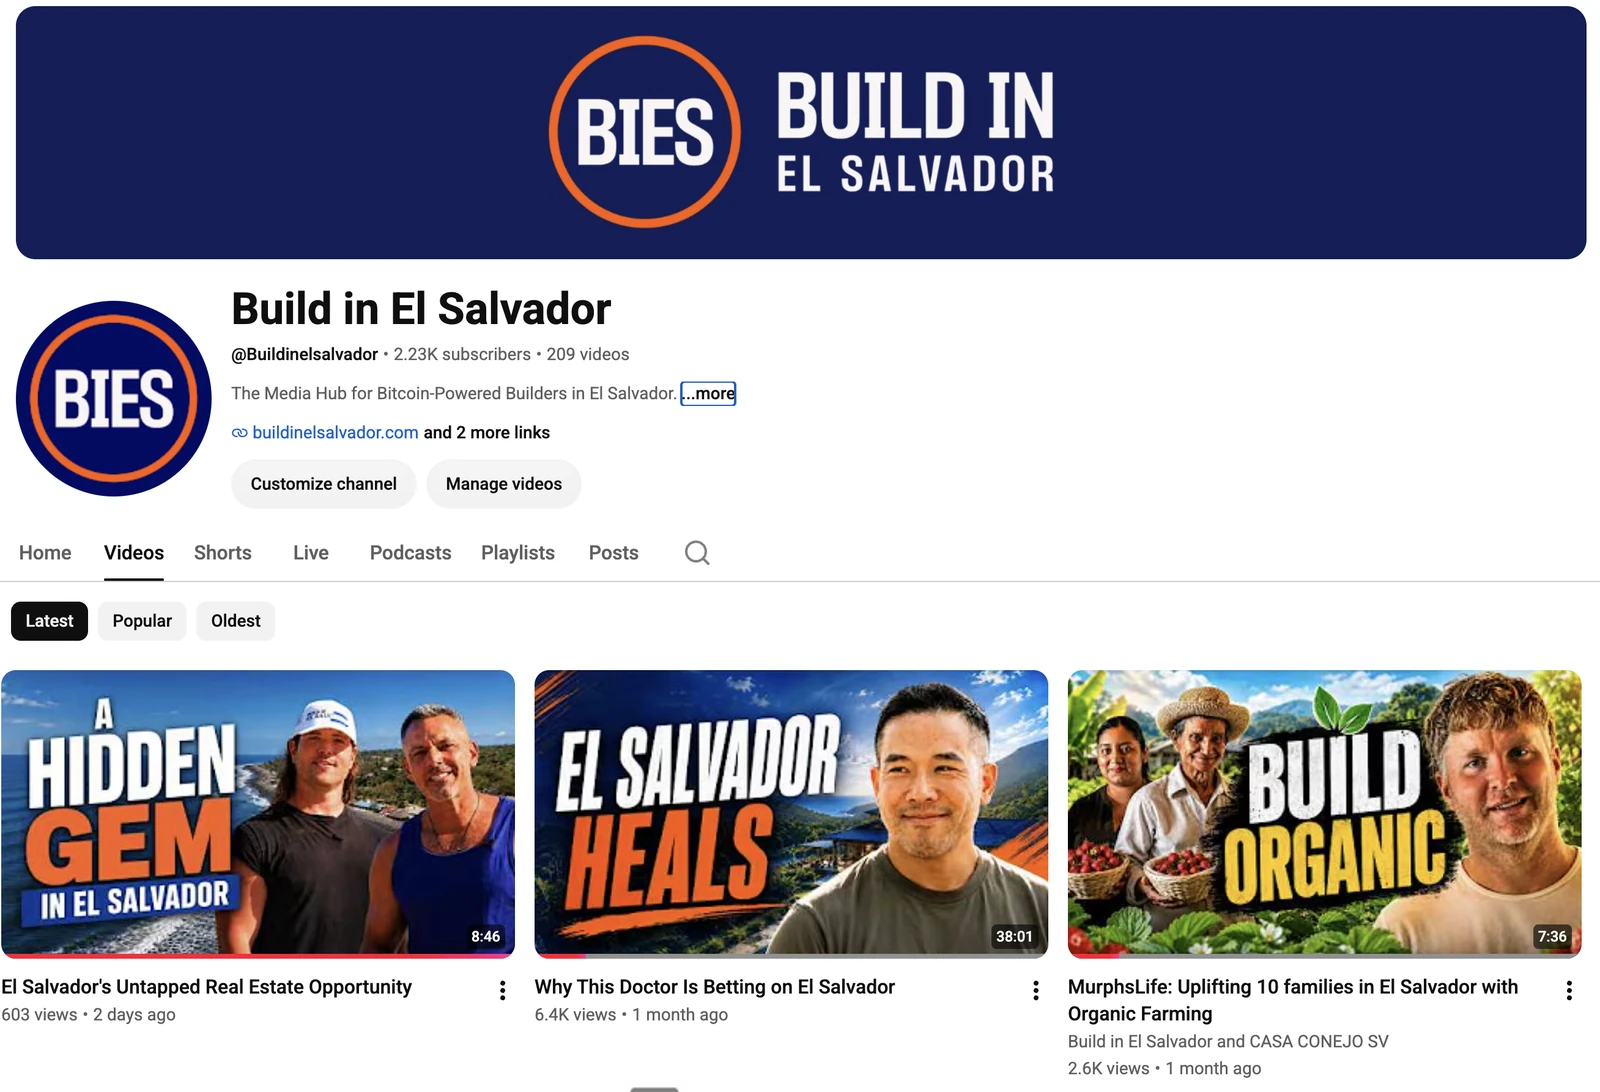
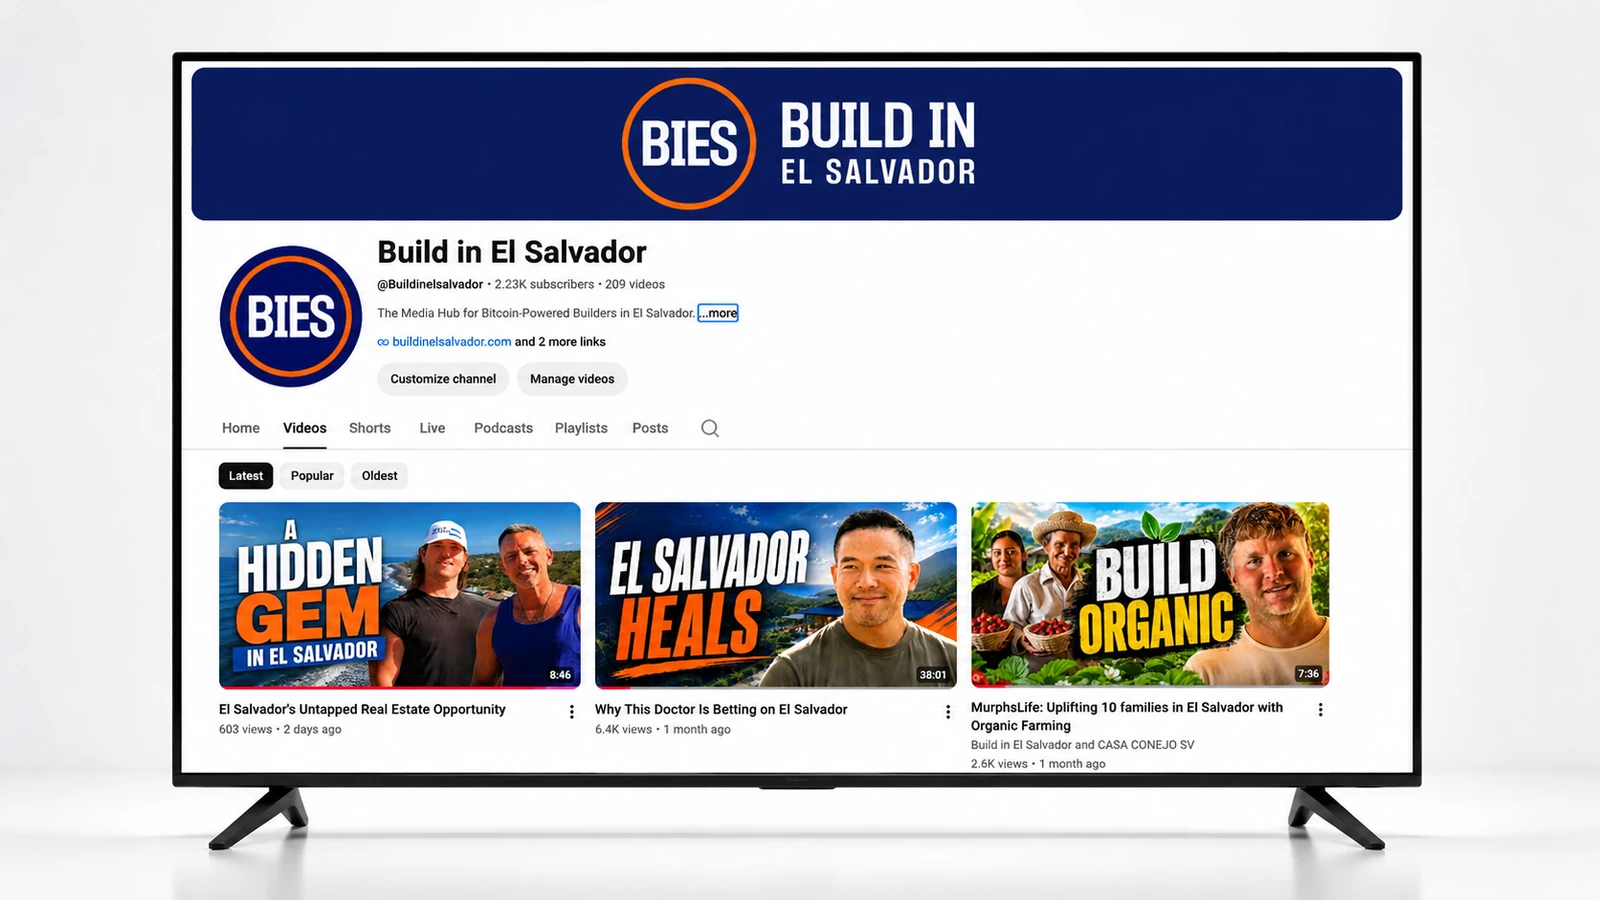
Swap YouTube Broadcast image for screen-mockup version

diff --git a/membership.html b/membership.html
@@ -86,7 +86,7 @@
     </div>
   </div>
   <div class="feature flip reveal">
-    <img src="assets/images/gallery/youtube-channel.webp" alt="The Build in El Salvador YouTube channel, showing recent videos" loading="lazy" style="aspect-ratio:1308/893">
+    <img src="assets/images/gallery/youtube-channel.webp?v=2" alt="The Build in El Salvador YouTube channel shown on a screen" loading="lazy" style="aspect-ratio:16/9">
     <div class="copy">
       <h3>YouTube Broadcast</h3>
       <p>Our channel broadcasts the stories, interviews, and lifestyle of life in El Salvador: conversations with the builders and thinkers shaping the country's future, project tours, and the ideas driving its new renaissance. It's also a platform for members who create. Have an idea for a piece of content? Bring it to the broadcast, and share it with an established audience already tuned in to El Salvador's builder movement.</p>
